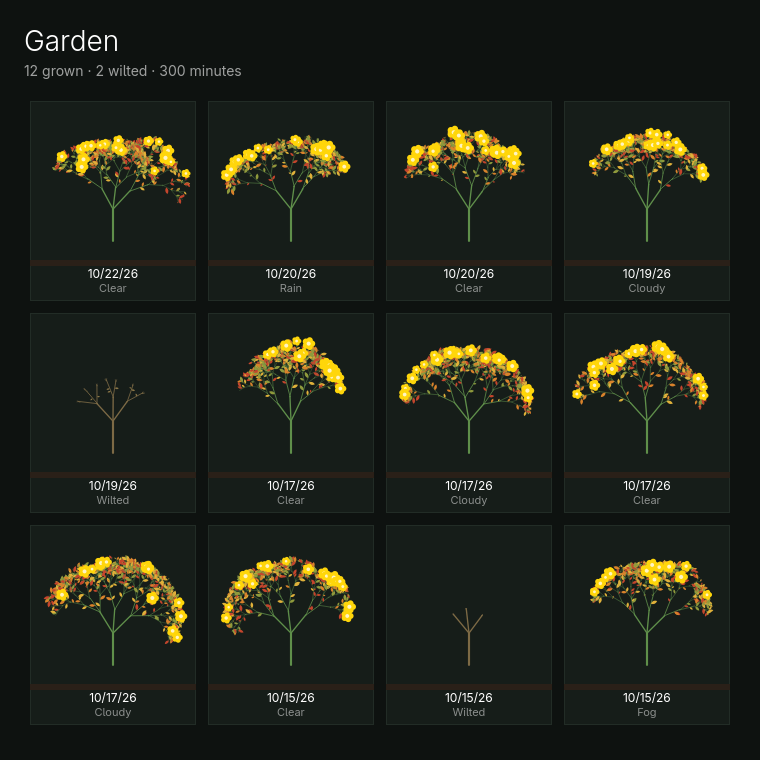
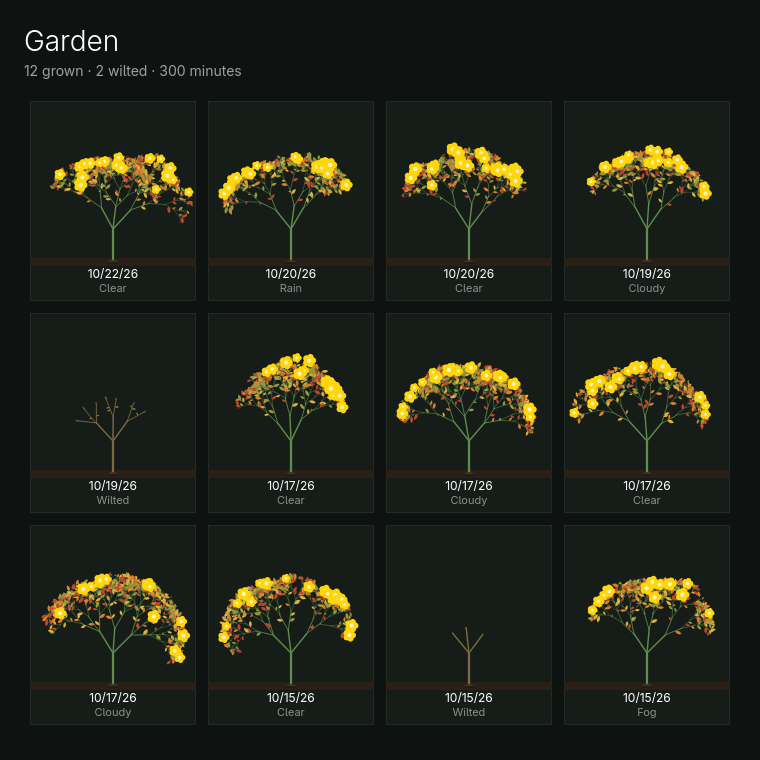
Quiet the timer and drop the season and weather line

diff --git a/src/Main.qml b/src/Main.qml
@@ -35,23 +35,6 @@ ApplicationWindow {
         return number(m) + ":" + (s < 10 ? number(0) : "") + number(s)
     }
 
-    function seasonName() {
-        switch (weather.season) {
-        case "spring": return qsTr("Spring")
-        case "summer": return qsTr("Summer")
-        case "autumn": return qsTr("Autumn")
-        default: return qsTr("Winter")
-        }
-    }
-    function weatherName() {
-        switch (weather.kind) {
-        case "cloudy": return qsTr("Cloudy")
-        case "rain": return qsTr("Rain")
-        case "snow": return qsTr("Snow")
-        case "fog": return qsTr("Fog")
-        default: return qsTr("Clear")
-        }
-    }
 
     function ask(action) {
         confirm.action = action
@@ -142,33 +125,29 @@ ApplicationWindow {
             ambient: light.ambient
         }
 
+        // Small and quiet, so the scene comes first.
         ColumnLayout {
             anchors.top: parent.top
-            anchors.topMargin: 24
+            anchors.topMargin: 18
             anchors.horizontalCenter: parent.horizontalCenter
-            spacing: 4
+            spacing: 2
 
             Label {
                 Layout.alignment: Qt.AlignHCenter
                 text: backend.state === "idle" ? qsTr("%n minutes", "", backend.minutes)
                     : win.clock(backend.state === "growing" ? backend.remaining : 0)
-                font.pixelSize: 44
+                font.pixelSize: 24
                 font.weight: Font.Light
-                opacity: 0.92
+                opacity: 0.75
             }
             Label {
                 Layout.alignment: Qt.AlignHCenter
-                opacity: 0.6
+                opacity: 0.5
+                font.pixelSize: 12
                 text: backend.state === "idle" ? qsTr("Press Space to plant a seed")
                     : backend.state === "growing" ? qsTr("Growing. Stay with it.")
                     : backend.state === "done" ? qsTr("Fully grown. Space plants another.")
                     : qsTr("It wilted. Space tries again.")
-            }
-            Label {
-                Layout.alignment: Qt.AlignHCenter
-                opacity: 0.4
-                font.pixelSize: 12
-                text: win.seasonName() + " · " + win.weatherName()
             }
         }
 

diff --git a/src/main.cpp b/src/main.cpp
@@ -22,7 +22,7 @@
 int main(int argc, char *argv[]) {
     QGuiApplication app(argc, argv);
     app.setApplicationName("grove");
-    app.setApplicationVersion("0.4.5");
+    app.setApplicationVersion("0.4.6");
 
     // Matches the window to grove.desktop, so the compositor (Wayland app_id)
     // and the launcher pick up the installed icon.
